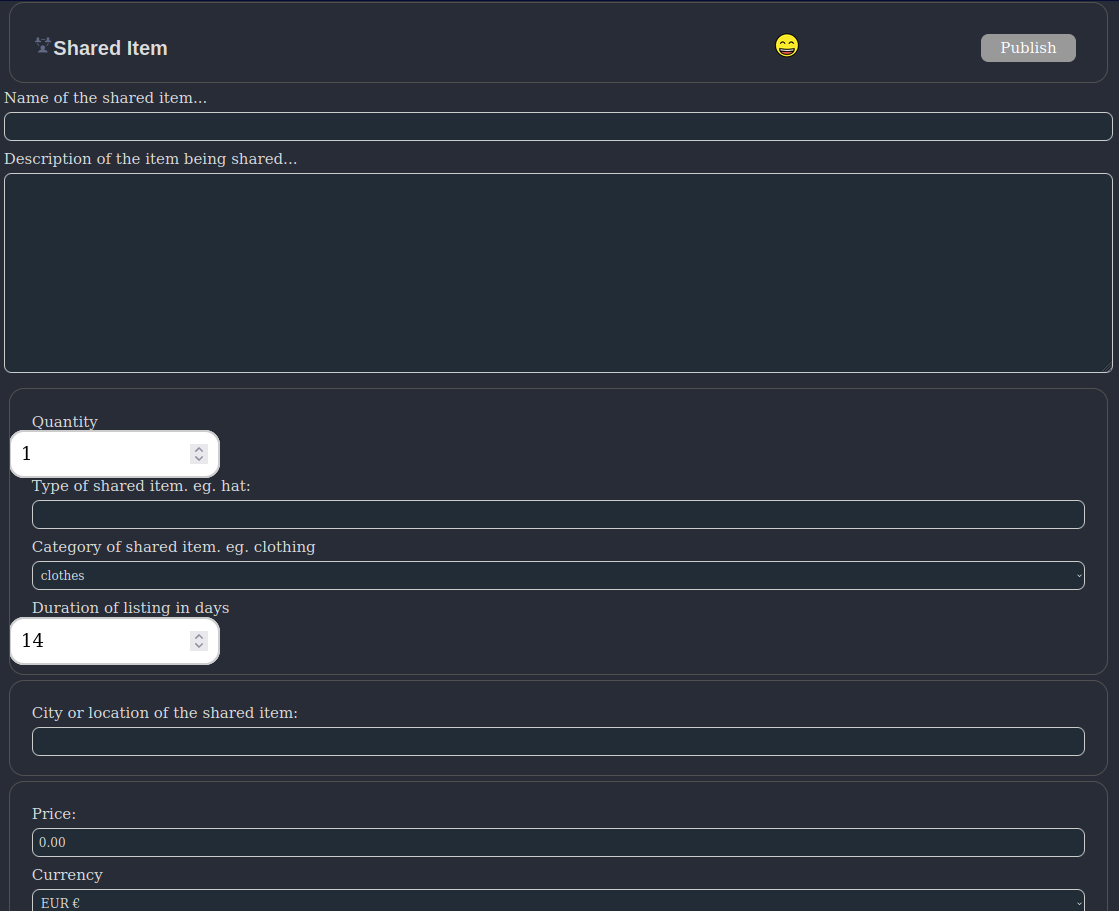
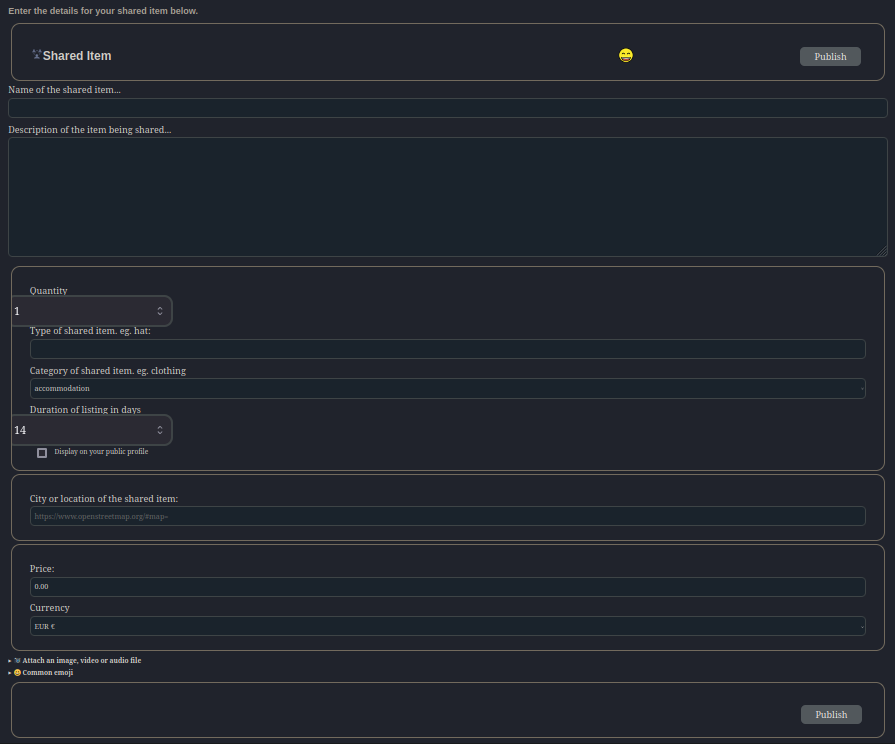
Document shared items on profile

diff --git a/manual/manual.md b/manual/manual.md
@@ -685,6 +685,8 @@ When creating a new post one of the scope options is called *shares*. You can de
 
 Sharing is primarily intended to not require any monetary transactions, although prices can optionally be added. There are no payment mechanisms implemented and if that is required then it is recommended to include details of payment method within the description.
 
+It is optionally possible to display the shared item on your profile, which makes it *fully public to the whole internet*. Only a small number of shared items can be shown on your profile though, which is decided via the command option *--maxSharesOnProfile*.
+
 ![Adding a new shared item](manual-new-share.png)
 
 ## Adding a wanted item
